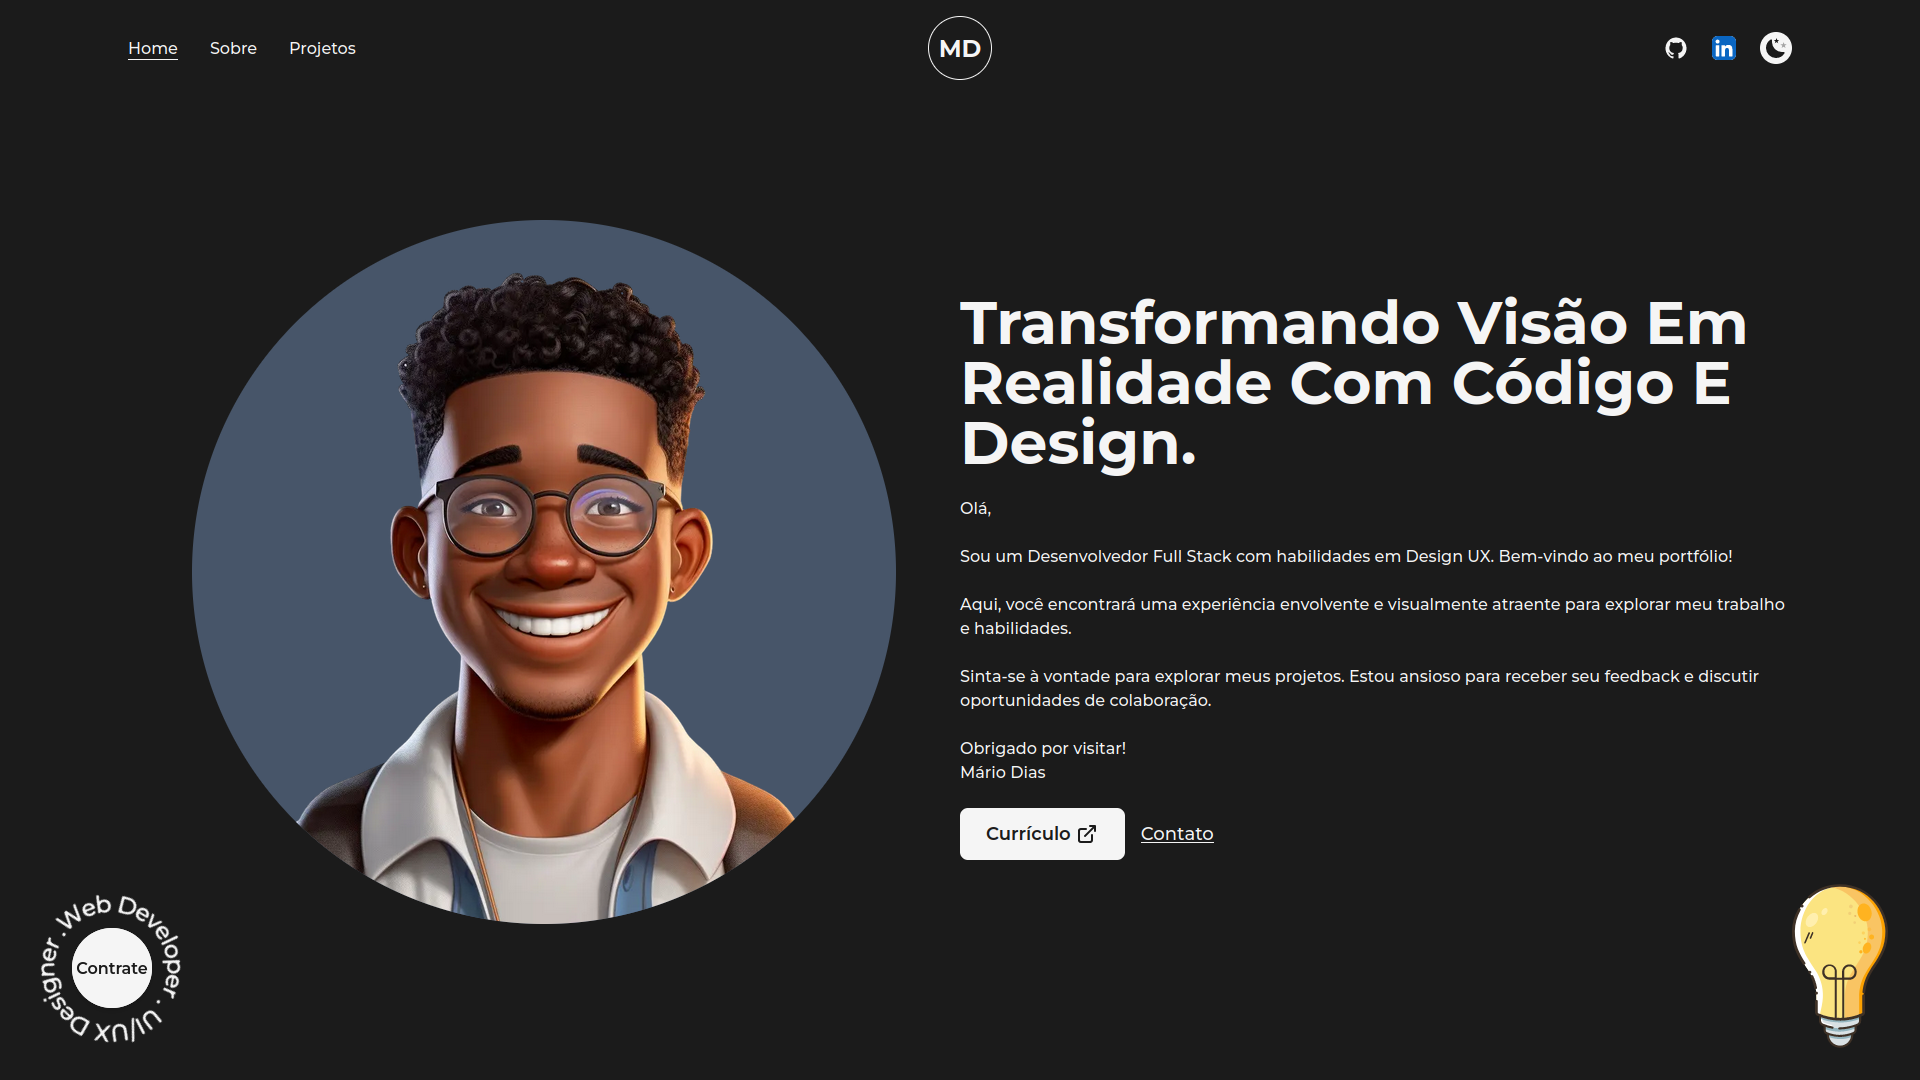
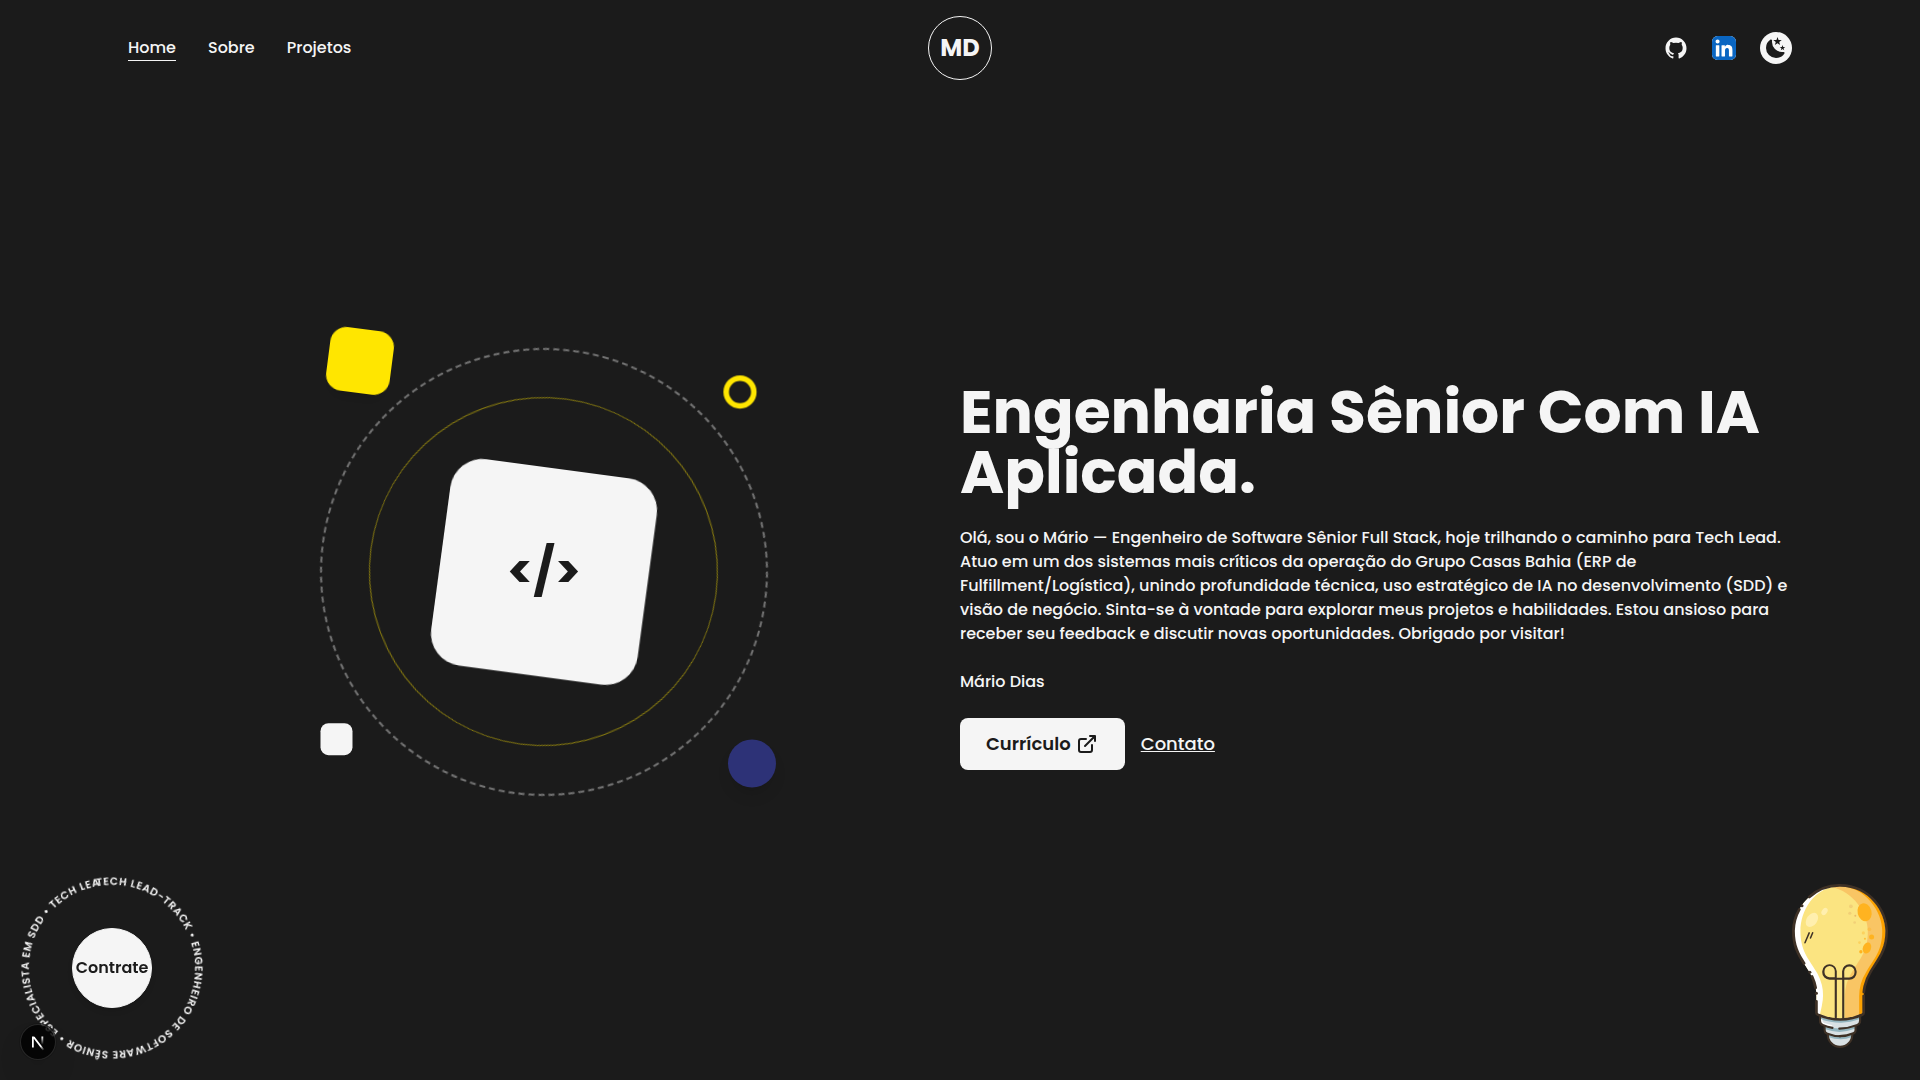
fix: corrige link quebrado do sdd-starter-kit e atualiza thumb do portfolio
O link "Visite o Projeto" apontava para a landing page na Netlify, que
ainda não está publicada (deploy manual bloqueado por permissão — ver
pendência documentada). Volta a apontar para o GitHub até o deploy via
Git ser configurado. Também atualiza os prints do card "Portfólio" na
própria página de projetos, que ainda mostravam o visual antigo (avatar
cartoon, cores antigas) antes do rebrand.

Claude-Session: https://claude.ai/code/session_01JrL7rzxLTrf2iqdXhFxsKr

diff --git a/src/pages/projects.js b/src/pages/projects.js
@@ -133,7 +133,7 @@ const projects = () => {
               <FeaturedProject
                 title="sdd-starter-kit"
                 summary="Framework open source de referência para Spec-Driven Development (SDD) com agentes de IA: templates de spec, prompt gerado a partir da spec, exemplo real em TypeScript implementado via TDD e CI com scan de vulnerabilidades (Trivy)."
-                link="https://sdd-starter-kit.netlify.app"
+                link="https://github.com/mariospdias/sdd-starter-kit"
                 github="https://github.com/mariospdias/sdd-starter-kit"
                 type="Projeto em destaque"
                 img={projectSddStarterKit}
